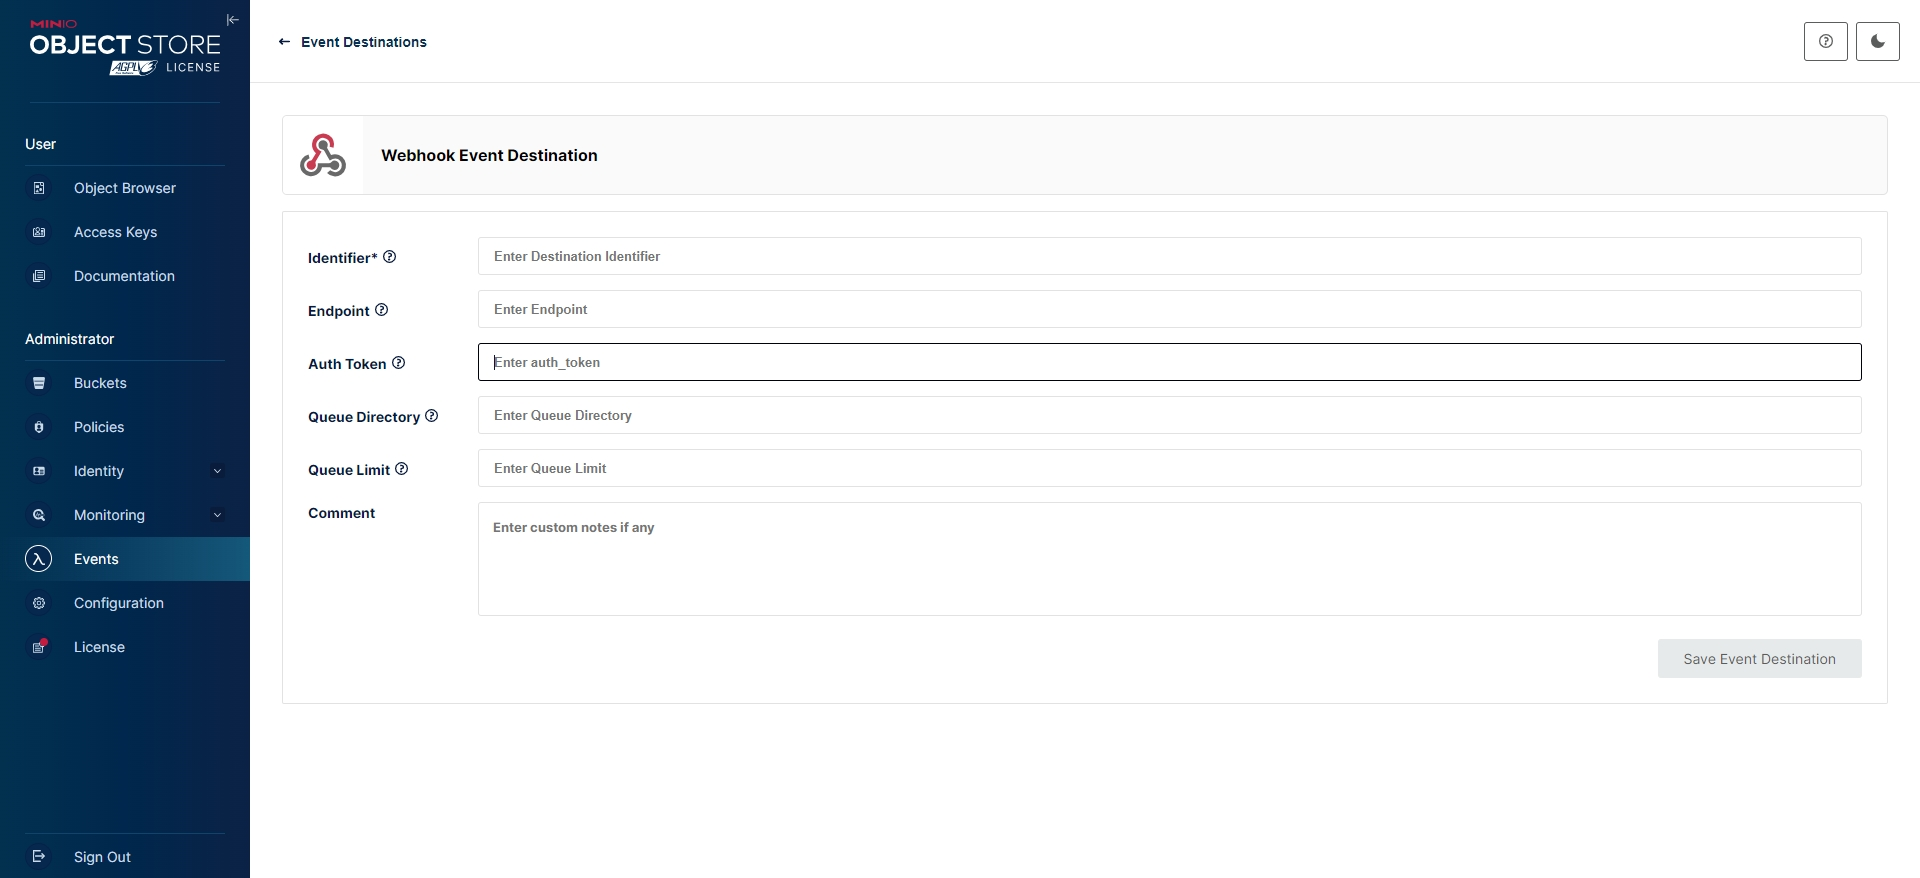
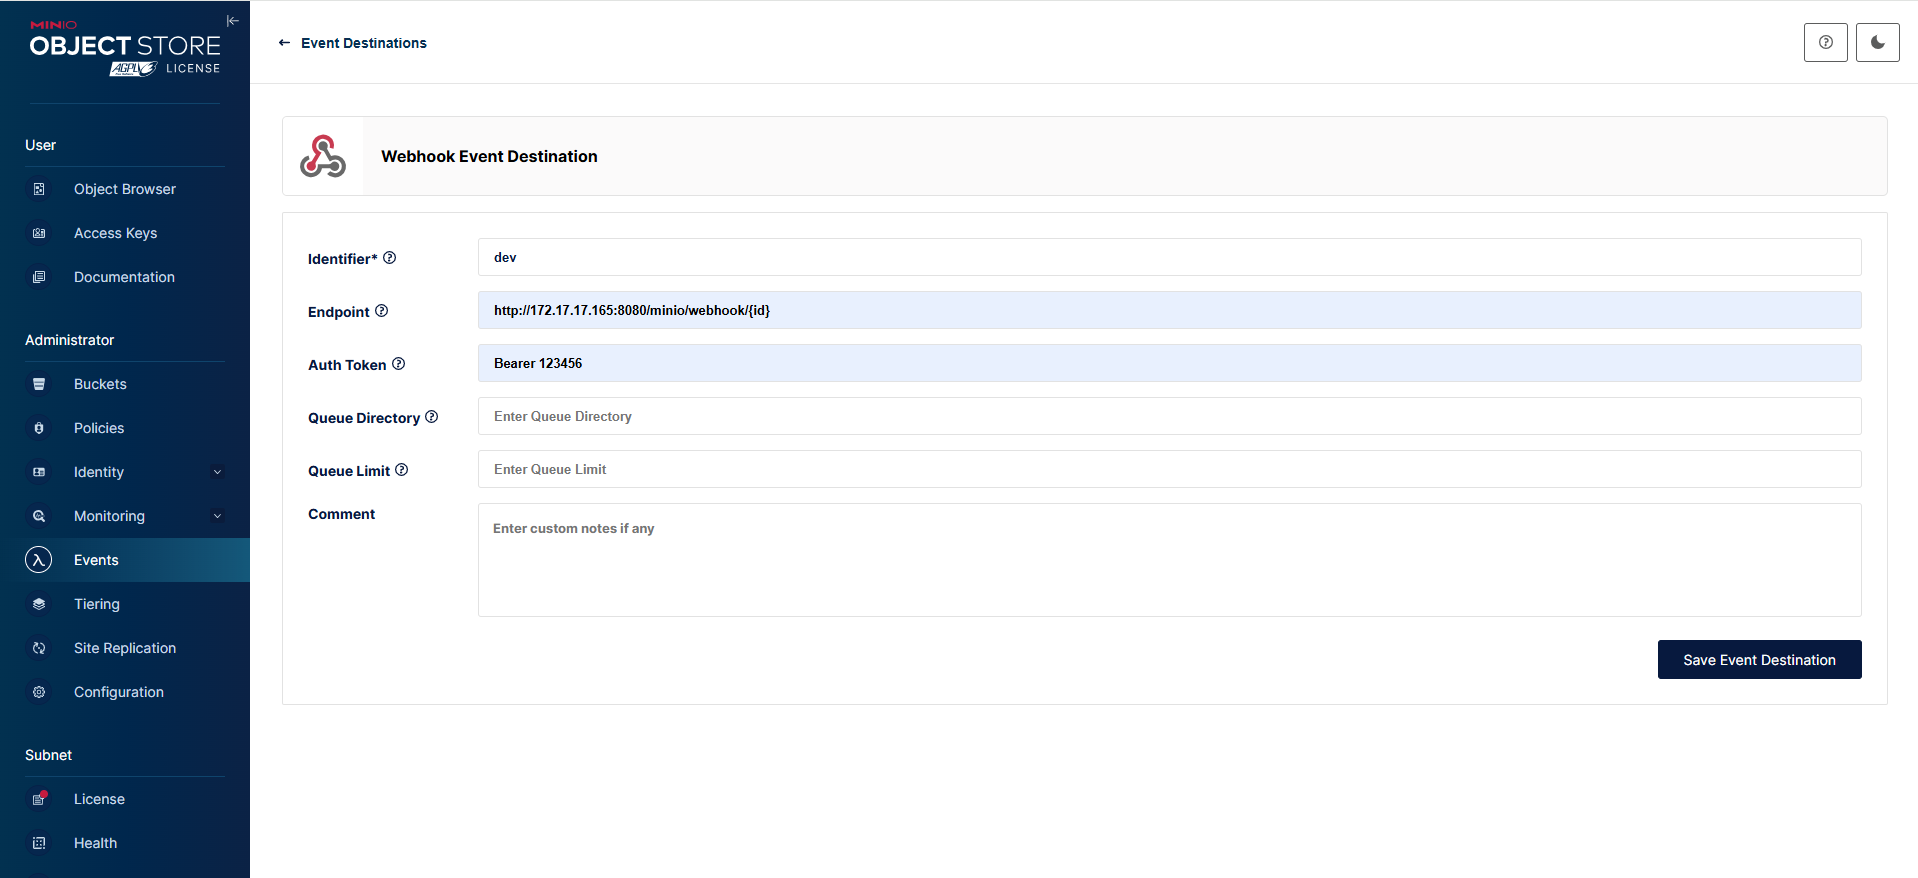
update

diff --git a/spring-boot-minio/src/main/java/net/xzh/minio/util/MinioUtils.java b/spring-boot-minio/src/main/java/net/xzh/minio/util/MinioUtils.java
@@ -4,16 +4,17 @@ import java.io.ByteArrayInputStream;
 import java.io.InputStream;
 import java.io.UnsupportedEncodingException;
 import java.net.URLDecoder;
+import java.time.LocalDate;
 import java.util.ArrayList;
-import java.util.Date;
+import java.util.Base64;
 import java.util.LinkedList;
 import java.util.List;
 import java.util.Optional;
 
+import org.apache.commons.lang3.StringUtils;
 import org.springframework.stereotype.Component;
 import org.springframework.web.multipart.MultipartFile;
 
-import cn.hutool.core.util.StrUtil;
 import io.minio.BucketExistsArgs;
 import io.minio.CopyObjectArgs;
 import io.minio.CopySource;
@@ -37,7 +38,6 @@ import io.minio.messages.Item;
 import lombok.RequiredArgsConstructor;
 import lombok.SneakyThrows;
 import lombok.extern.slf4j.Slf4j;
-import sun.misc.BASE64Decoder;
 
 /**
  * MinIO Utils
@@ -276,11 +276,11 @@ public class MinioUtils {
      * @return
      */
     public ObjectWriteResponse uploadImage(String bucketName, String imageBase64, String imageName) {
-        if (StrUtil.isNotEmpty(imageBase64)) {
+        if (StringUtils.isNotEmpty(imageBase64)) {
             InputStream in = base64ToInputStream(imageBase64);
             String newName = System.currentTimeMillis() + "_" + imageName + ".jpg";
-            String year = String.valueOf(new Date().getYear());
-            String month = String.valueOf(new Date().getMonth());
+            String year = String.valueOf(LocalDate.now().getYear());
+            String month = String.valueOf(LocalDate.now().getMonth());
             return uploadFile(bucketName, year + "/" + month + "/" + newName, in);
 
         }
@@ -290,7 +290,7 @@ public class MinioUtils {
     public static InputStream base64ToInputStream(String base64) {
         ByteArrayInputStream stream = null;
         try {
-            byte[] bytes = new BASE64Decoder().decodeBuffer(base64.trim());
+            byte[] bytes = Base64.getDecoder().decode(base64.trim());
             stream = new ByteArrayInputStream(bytes);
         } catch (Exception e) {
             e.printStackTrace();

diff --git a/spring-boot-minio/src/main/java/net/xzh/minio/controller/OSSController.java b/spring-boot-minio/src/main/java/net/xzh/minio/controller/OSSController.java
@@ -4,6 +4,7 @@ import java.io.InputStream;
 
 import javax.servlet.http.HttpServletResponse;
 
+import org.apache.commons.io.FilenameUtils;
 import org.apache.tomcat.util.http.fileupload.IOUtils;
 import org.springframework.beans.factory.annotation.Autowired;
 import org.springframework.beans.factory.annotation.Value;
@@ -15,9 +16,7 @@ import org.springframework.web.bind.annotation.RequestParam;
 import org.springframework.web.bind.annotation.RestController;
 import org.springframework.web.multipart.MultipartFile;
 
-import cn.hutool.core.io.FileUtil;
 import lombok.extern.slf4j.Slf4j;
-import net.xzh.minio.config.MinioConfig;
 import net.xzh.minio.util.MinioUtils;
 
 @Slf4j
@@ -42,7 +41,7 @@ public class OSSController {
         try {
             //file name
             String fileName = file.getOriginalFilename();
-            String newFileName = System.currentTimeMillis() + "." + FileUtil.extName(fileName);
+            String newFileName = System.currentTimeMillis() + "." + FilenameUtils.getExtension(fileName);
             //type
             String contentType = file.getContentType();
             minioUtils.uploadFile(bucketName, file, newFileName, contentType);

diff --git a/spring-boot-minio/src/main/java/net/xzh/minio/controller/WebhookController.java b/spring-boot-minio/src/main/java/net/xzh/minio/controller/WebhookController.java
@@ -1,10 +1,6 @@
 package net.xzh.minio.controller;
 
-import java.util.HashMap;
 import java.util.Map;
-
-import javax.servlet.http.HttpServletRequest;
-import javax.servlet.http.HttpServletResponse;
 
 import org.springframework.http.ResponseEntity;
 import org.springframework.web.bind.annotation.PathVariable;
@@ -36,7 +32,7 @@ public class WebhookController {
 			// 将payload字符串转换为Map，便于处理数据
 			ObjectMapper mapper = new ObjectMapper();
 			Map<String, Object> data = mapper.readValue(payload, Map.class);
-			System.out.println("Received webhook: " + data);
+			System.out.println("Received Webhook: " + data);
 			// 在这里添加你的逻辑，例如调用构建或部署脚本等
 			// 例如：deployProject(data);
 			return ResponseEntity.ok("Webhook received");

diff --git a/spring-boot-minio/src/main/java/net/xzh/minio/listener/DirectExchangeListener.java b/spring-boot-minio/src/main/java/net/xzh/minio/listener/DirectExchangeListener.java
@@ -6,6 +6,6 @@ import org.springframework.stereotype.Component;
 public class DirectExchangeListener {
     @RabbitListener(queues = "#{bucketqueue}")// 监听指定的队列
     public void receive(String message) {
-        System.out.println("Received: " + message); // 处理接收到的消息
+        System.out.println("Received AMQP: " + message); // 处理接收到的消息
     }
 }

diff --git a/spring-boot-minio/src/main/java/net/xzh/minio/MinioApplication.java b/spring-boot-minio/src/main/java/net/xzh/minio/MinioApplication.java
@@ -4,8 +4,8 @@ import org.springframework.boot.SpringApplication;
 import org.springframework.boot.autoconfigure.SpringBootApplication;
 
 @SpringBootApplication
-public class Application {
+public class MinioApplication {
 	public static void main(String[] args) {
-		SpringApplication.run(Application.class, args);
+		SpringApplication.run(MinioApplication.class, args);
 	}
 }

diff --git a/spring-boot-minio/README.md b/spring-boot-minio/README.md
@@ -10,23 +10,57 @@
 - 删除：http://172.17.17.165:8080/oss/?fileName=1743488658933.jpg
 
 ```bash
+# 安装 minio
 docker run -dit -p 9000:9000 -p 9001:9001 --name minio \
   -v /data/minio/data:/data \
   -v /data/minio/config:/root/.minio \
-  minio/minio server /data --console-address ":9001"
+  minio/minio:RELEASE.2024-10-29T16-01-48Z \
+  server /data \
+  --console-address ":9001" 
+# 查看日志
+docker logs -f minio
+
+
+# 安装 rabbitmq
+docker run -p 5672:5672 -p 15672:15672 --name rabbitmq -d rabbitmq:3.7.15
+docker exec -it rabbitmq /bin/bash
+# 启动管理界面
+rabbitmq-plugins enable rabbitmq_management
+# 创建用户
+rabbitmqctl add_user admin 123456
+rabbitmqctl set_user_tags admin administrator
+rabbitmqctl set_permissions -p "/" admin ".*" ".*" ".*"
 ```
 
-访问地址：http://172.17.17.160:9001/ ，账户密码：minioadmin/minioadmin
+访问地址：http://172.17.17.161:9001/ ，账户密码：minioadmin/minioadmin
 
 创建事件
 ![](doc/assets/1.png)
+
 创建Webhook
 ![](doc/assets/2.png)
+
 填写回调地址
 ![](doc/assets/3.png)
+
+```
+dev
+http://172.17.17.165:8080/minio/webhook/{id}
+Bearer 123456
+```
+
 创建AMPQ
-![](doc/assets/4.png)
+![:](doc/assets/4.png)
+
+```
+172.17.17.161:dev
+amqp://admin:123456@172.17.17.161:5672
+bucketevents
+direct
+bucketlogs
+```
+
 绑定桶
 ![](doc/assets/5.png)
 
-> AMPQ创建回调后，默认没有将交换机与队列进行绑定，绑定过程是在项目代码中完成。
+> AMQP创建回调后，默认没有将交换机与队列进行绑定，绑定过程是在项目代码中完成。
